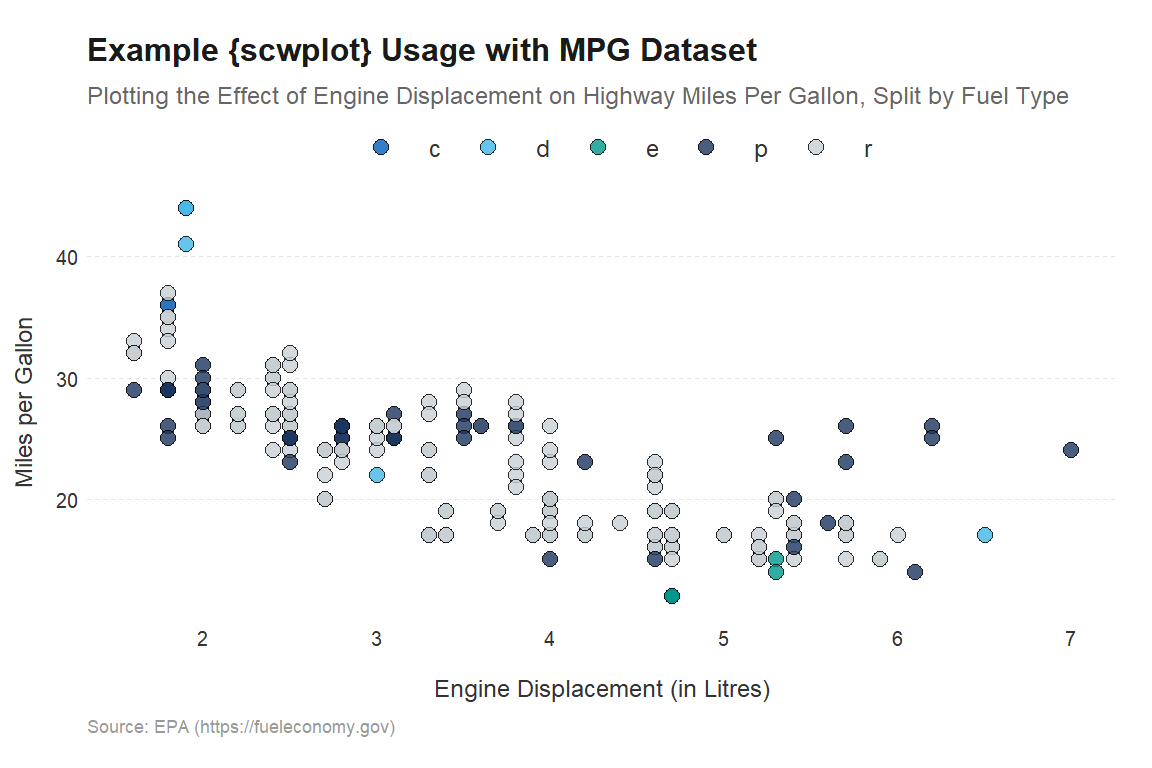
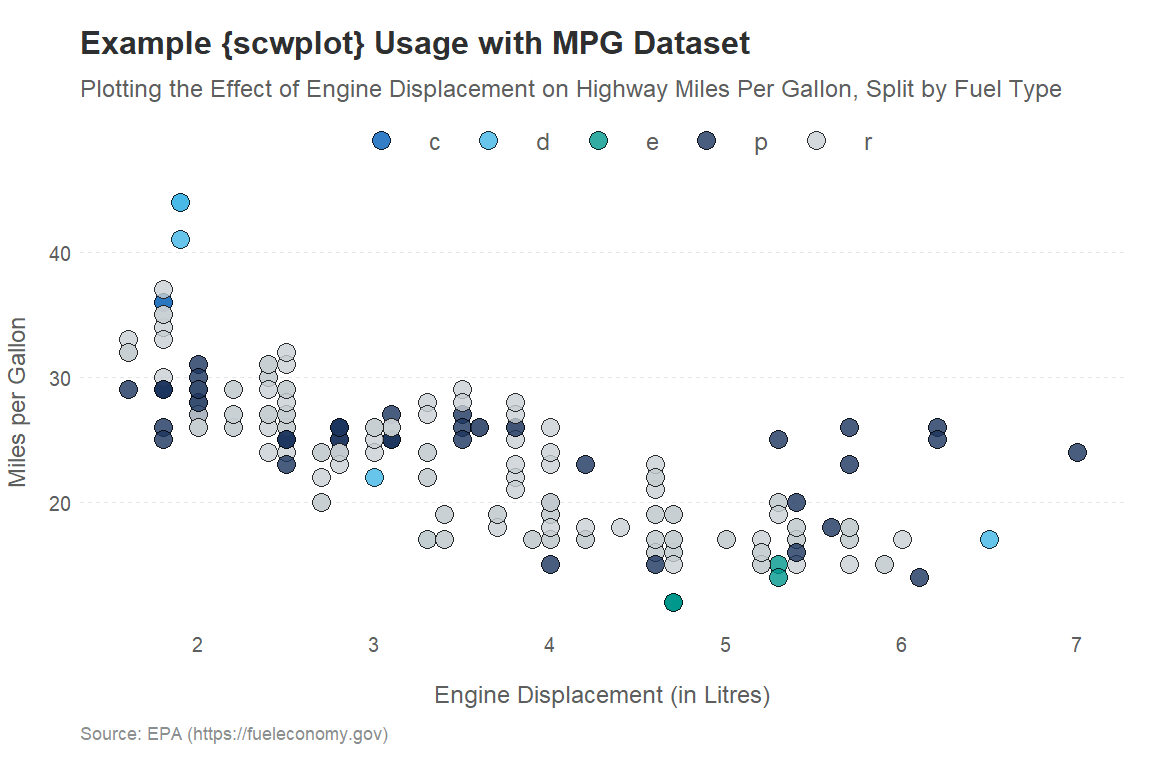
Update README

diff --git a/README.md b/README.md
@@ -42,15 +42,11 @@ A simple example of the scwplot usage:
 library(ggplot2)
 library(scwplot)
 
-ggplot(mpg, aes(displ, hwy, fill = fl)) + 
-  geom_point(shape = 21, size = 5, stroke = 1, alpha = 0.8) + 
-  labs(title = "Example {scwplot} Usage with MPG Dataset", 
-       subtitle = glue::glue("Plotting the Effect of Engine Displacement on ",
-                             "Highway Miles Per Gallon, Split by Fuel Type"),
-       caption = "Source: EPA (https://fueleconomy.gov)",
-       x = "Engine Displacement (in Litres)", y = "Miles per Gallon") +
-  scale_fill_qualitative(palette = "scw") +
-  theme_scw()
+ggplot(mpg, aes(displ, hwy, fill = fl)) + geom_point(shape = 21, size = 6, stroke = 1,
+    alpha = 0.8) + labs(title = "Example {scwplot} Usage with MPG Dataset", subtitle = glue::glue("Plotting the Effect of Engine Displacement on ",
+    "Highway Miles Per Gallon, Split by Fuel Type"), caption = "Source: EPA (https://fueleconomy.gov)",
+    x = "Engine Displacement (in Litres)", y = "Miles per Gallon") + scale_fill_qualitative(palette = "scw") +
+    theme_scw()
 ```
 
 <img src="man/figures/README-scwplot-basics-1.png" width="100%" />
